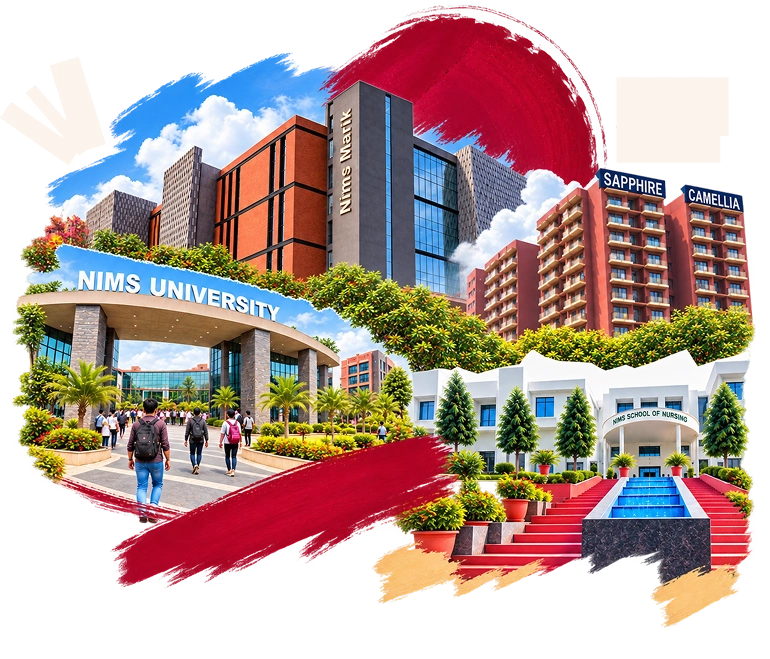
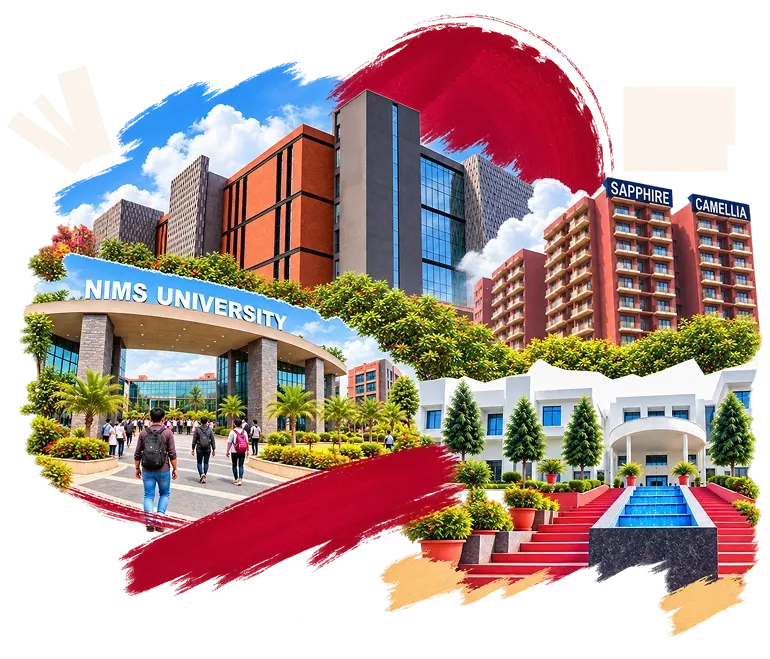
hero section updated

diff --git a/css/style.css b/css/style.css
@@ -1027,7 +1027,7 @@ a.scholarship-next-option:focus-visible{outline:3px solid #053555;outline-offset
 .scholarship-next-arrow{position:absolute;z-index:1;top:28%;left:38%;width:13%;color:#d00000}
 .scholarship-next-art{position:absolute;z-index:0;inset:0 1% 0 auto;width:50%}
 .scholarship-next-campus{position:absolute;top:0;right:0;width:100%;height:100%;object-fit:contain}
-.scholarship-next-student{position:absolute;bottom:-2%;left:20%;width:61%;height:91%;object-fit:contain;object-position:center bottom;filter:drop-shadow(3px 0 0 #fff) drop-shadow(-3px 0 0 #fff) drop-shadow(0 -3px 0 #fff)}
+.scholarship-next-student{position:absolute;bottom:-2%;left:35%;width:61%;height:91%;object-fit:contain;object-position:center bottom;filter:drop-shadow(3px 0 0 #fff) drop-shadow(-3px 0 0 #fff) drop-shadow(0 -3px 0 #fff)}
 @media (min-width:768px) and (max-width:1023px){
   .scholarship-next-inner{min-height:470px;padding:48px 4%}
   .scholarship-next-copy{width:49%}
